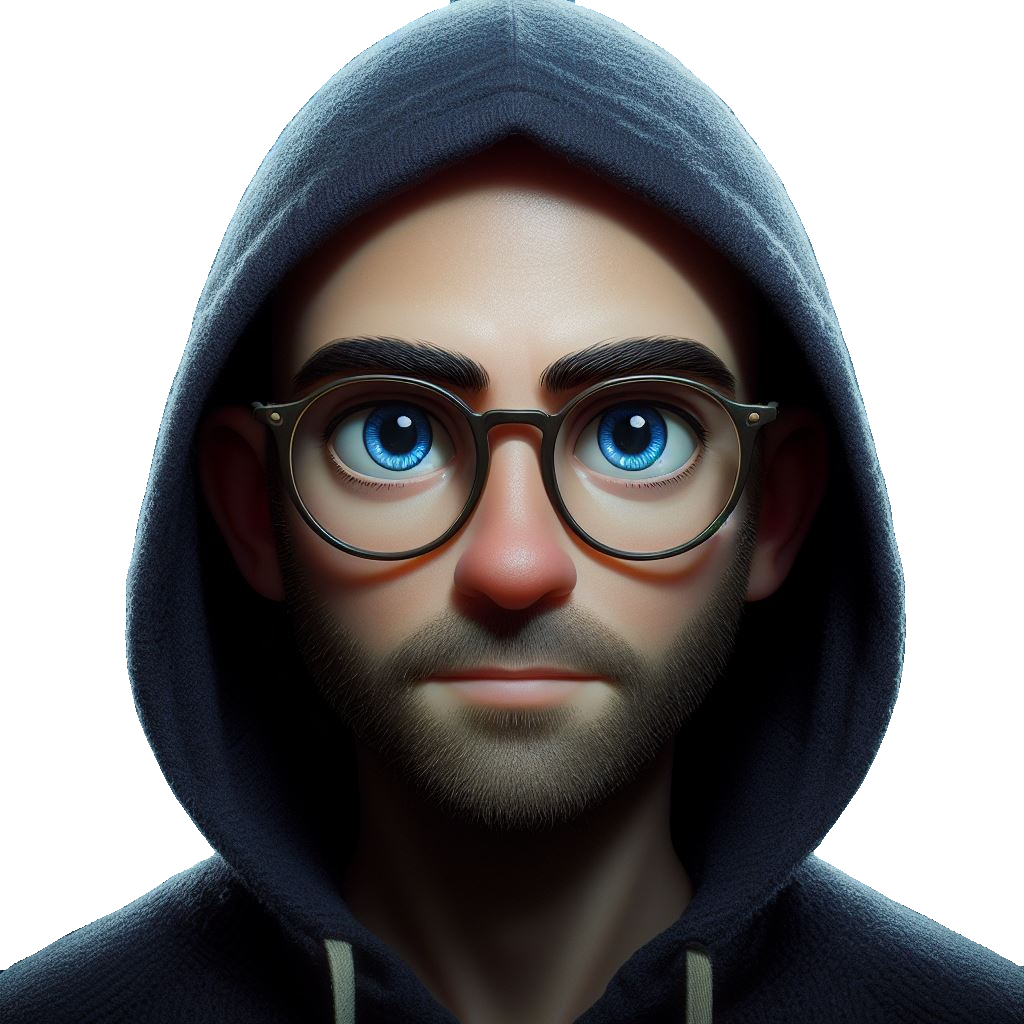
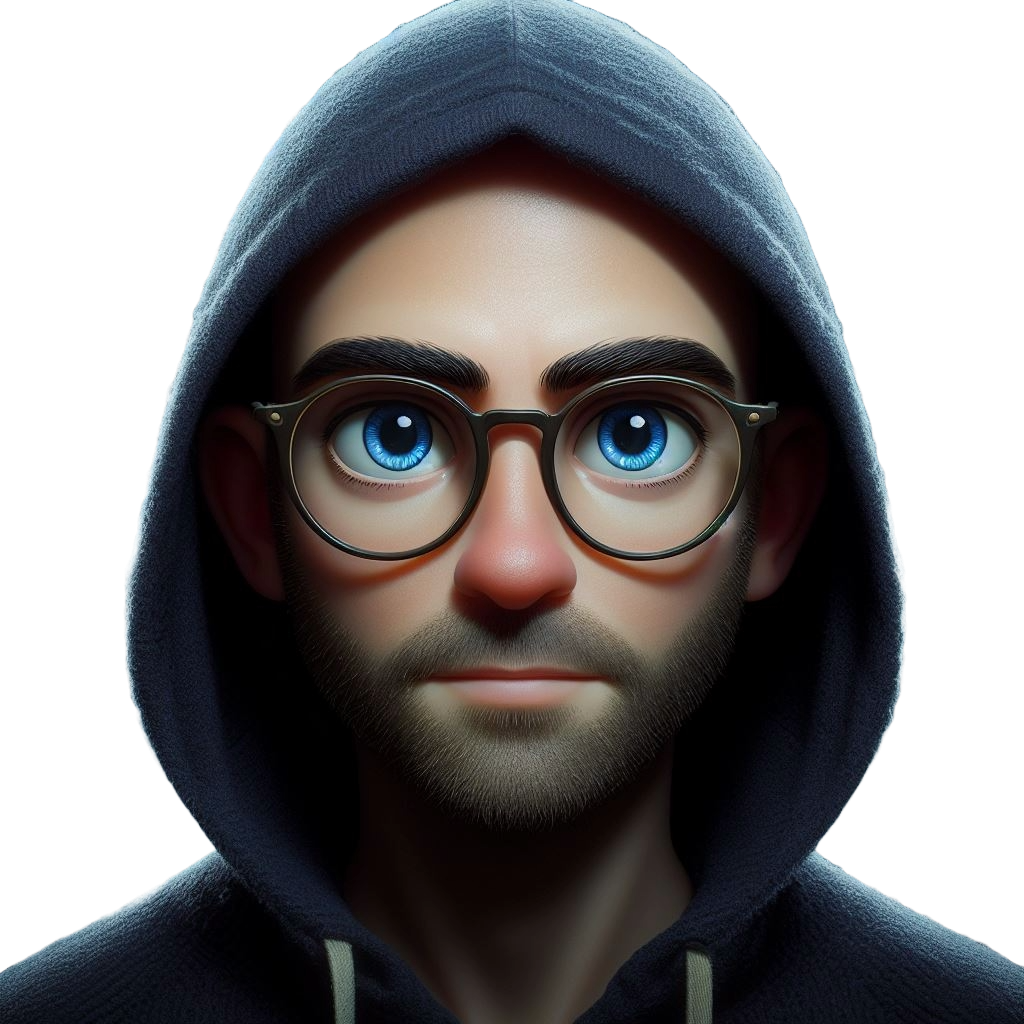
Rearrange files and components

diff --git a/components/Header.tsx b/components/Header.tsx
@@ -3,21 +3,52 @@
 import React from 'react';
 import Image from 'next/image';
 import Link from 'next/link';
-import { ModeToggle } from './ModeToggle';
+import { useTheme } from 'next-themes';
 
 const Header: React.FC = () => {
+  const [mounted, setMounted] = React.useState(false);
+  const { theme, setTheme } = useTheme();
+  const [isHovered, setIsHovered] = React.useState(false);
+
+  React.useEffect(() => setMounted(true), []);
+
+  if (!mounted) return null;
+
+  const handleMouseEnter = () => {
+    setIsHovered(true);
+  };
+
+  const handleMouseLeave = () => {
+    setIsHovered(false);
+  };
+
   return (
     <header className='lg:sticky lg:top-0 lg:flex lg:max-h-screen lg:w-1/2 lg:flex-col lg:py-24'>
-      {/* Your code here */}
-      <Image
-        src='/dark-profile.png'
-        alt='Pixar style avatar of Aaron Myburgh in a dark theme'
-        width={400}
-        height={400}
-        // fill={true}
-        objectFit='contain'
-        className='rounded-full'
-      ></Image>
+      <div
+        className='transform transition duration-500 ease-in-out'
+        onMouseEnter={handleMouseEnter}
+        onMouseLeave={handleMouseLeave}
+      >
+        {theme === 'dark' ? (
+          <Image
+            src={isHovered ? '/dark-profile-glitch.webp' : '/dark-profile.png'}
+            alt='Pixar style avatar of Aaron Myburgh in a dark theme'
+            width={400}
+            height={400}
+            // objectFit='contain'
+            className='rounded-full'
+          />
+        ) : (
+          <Image
+            src={'/light-profile2.png'}
+            alt='Pixar style avatar of Aaron Myburgh in a light theme'
+            width={400}
+            height={400}
+            // objectFit='contain'
+            className='rounded-full'
+          />
+        )}
+      </div>
       <h1 className='mt-8 text-4xl font-bold text-gray-200 sm:text-5xl'>
         <a href='/'>Aaron Myburgh</a>
       </h1>

diff --git a/components/About.tsx b/components/About.tsx
@@ -1,0 +1,43 @@
+import React from 'react';
+
+const About: React.FC = () => {
+  return (
+    <div>
+      <h1>About</h1>
+      <p className='mb-4'>
+        I am Aaron, an adaptable and self-motivated software engineer with a
+        strong foundation in both Mechanical and Software Engineering. I am
+        currently transitioning to Software Engineering from a career in
+        Commercial Property Management.
+      </p>
+      <p>
+        My past experiences would be a valuable asset to any team seeking a
+        problem solver with a diverse skill set. My background in mechanical
+        engineering has provided me with a strong understanding of how systems
+        work and the ability to think critically and solve problems creatively.
+        My experience in commercial property management has further honed my
+        skills in communication, teamwork, and project management. I am
+        passionate about technology and I am constantly learning new things. I
+        am also interested in cybersecurity and have completed coursework in
+        ethical hacking and digital forensics.
+      </p>
+      <p>
+        When I step away from the computer, you can find me hanging out with my
+        family, getting lost in a good historical fiction or biography (highly
+        recommend
+        <a
+          className='font-medium text-gray-200 hover:text-teal-300 focus-visible:text-teal-300'
+          href='https://www.goodreads.com/book/show/343.Perfume'
+          target='_blank'
+          rel='noreferrer'
+        >
+          {' "Perfume: The Story of a Murderer" '}
+        </a>
+        for something unique), or in the summer tackling the open water for a
+        both fun and competetive swimming.
+      </p>
+    </div>
+  );
+};
+
+export default About;

diff --git a/components/ThemeToggle.tsx b/components/ThemeToggle.tsx
@@ -3,9 +3,9 @@
 import * as React from 'react';
 import { MoonIcon, SunIcon } from '@radix-ui/react-icons';
 import { useTheme } from 'next-themes';
-import { Button } from '@/components/main/Button';
+import { Button } from '@/components/ui/button';
 
-export function ModeToggle() {
+export function ThemeToggle() {
   const { theme, setTheme } = useTheme();
 
   const toggleTheme = () => {
@@ -17,10 +17,10 @@ export function ModeToggle() {
       variant='outline'
       size='icon'
       onClick={toggleTheme}
-      className='absolute right-6 top-6'
+      className='absolute right-6 top-6 dark:border-gray-400'
     >
-      <SunIcon className='h-[1.2rem] w-[1.2rem] rotate-0 scale-100 transition-all dark:-rotate-90 dark:scale-0' />
-      <MoonIcon className='absolute h-[1.2rem] w-[1.2rem] rotate-90 scale-0 transition-all dark:rotate-0 dark:scale-100' />
+      <SunIcon className='h-[1.2rem] w-[1.2rem] rotate-0 scale-100 text-gray-900 transition-all dark:-rotate-90 dark:scale-0' />
+      <MoonIcon className='absolute h-[1.2rem] w-[1.2rem] rotate-90 scale-0 text-gray-100 transition-all dark:rotate-0 dark:scale-100' />
       <span className='sr-only'>Toggle theme</span>
     </Button>
   );

diff --git a/app/layout.tsx b/app/layout.tsx
@@ -1,8 +1,8 @@
 import type { Metadata } from 'next';
 import { Inter } from 'next/font/google';
 import './globals.css';
-import { ThemeProvider } from '@/components/main/theme-provider';
-import { ModeToggle } from '@/components/main/ModeToggle';
+import { ThemeProvider } from '@/components/theme-provider';
+import { ThemeToggle } from '@/components/ThemeToggle';
 
 const inter = Inter({ subsets: ['latin'] });
 
@@ -20,16 +20,15 @@ export default function RootLayout({
   return (
     <html lang='en' suppressHydrationWarning>
       <body
-        className={`${inter.className} overflow-x-hidden overflow-y-scroll bg-gray-950 leading-relaxed text-gray-400 antialiased`}
+        className={`${inter.className} overflow-x-hidden overflow-y-scroll leading-relaxed antialiased`}
       >
         <ThemeProvider
           attribute='class'
-          defaultTheme='system'
-          enableSystem
-          disableTransitionOnChange
+          defaultTheme='dark'
+          enableSystem={false}
         >
+          <ThemeToggle />
           {children}
-          <ModeToggle />
         </ThemeProvider>
       </body>
     </html>

diff --git a/components/PageLinks.tsx b/components/PageLinks.tsx
@@ -1,0 +1,28 @@
+import React from 'react';
+import Link from 'next/link';
+
+const PageLinks: React.FC = () => {
+  return (
+    <nav className='hidden lg:block' aria-label='In-page jump links'>
+      <ul className='mt-16 w-max'>
+        {['about', 'experience', 'projects'].map((item) => (
+          <li key={item}>
+            <Link
+              className='active group flex items-center py-3'
+              href={`#${item}`}
+            >
+              <span className='nav-indicator group-delay-1000 mr-4 group-hover:text-gray-200 group-hover:opacity-0 group-focus-visible:w-4 group-focus-visible:text-gray-200 motion-reduce:transition-none'>
+                {'//'}
+              </span>
+              <span className='nav-text text-xs font-bold uppercase tracking-widest text-gray-500 group-hover:text-gray-200 group-focus-visible:text-gray-200'>
+                {item}
+              </span>
+            </Link>
+          </li>
+        ))}
+      </ul>
+    </nav>
+  );
+};
+
+export default PageLinks;

diff --git a/app/page.tsx b/app/page.tsx
@@ -1,15 +1,13 @@
-import Spotlight from '@/components/main/Spotlight';
-import Header from '@/components/main/Header';
+// import Spotlight from '@/components/Spotlight';
+import Header from '@/components/Header';
+import Main from '@/components/Main';
 
 export default function Home() {
   return (
     <>
-      <div className=''>
-        <Spotlight>
-          <div className='mx-auto min-h-screen max-w-screen-xl px-6 py-12 font-sans md:px-12 md:py-20 lg:px-24 lg:py-0'>
-            <Header></Header>
-          </div>
-        </Spotlight>
+      <div className='mx-auto min-h-screen max-w-screen-xl px-6 py-12 font-sans md:px-12 md:py-20 lg:px-24 lg:py-0'>
+        <Header></Header>
+        <Main />
       </div>
     </>
   );

diff --git a/app/globals.css b/app/globals.css
@@ -7,6 +7,12 @@
 }
 
 @layer base {
+  body {
+    @apply bg-gray-100 text-gray-400 transition-all duration-300 ease-in dark:bg-gray-950;
+  }
+}
+
+@layer base {
   :root {
     --background: 0 0% 100%;
     --foreground: 224 71.4% 4.1%;

diff --git a/components/Main.tsx b/components/Main.tsx
@@ -1,0 +1,12 @@
+import React from 'react';
+import About from './About';
+
+const Main: React.FC = () => {
+  return (
+    <main>
+      <About />
+    </main>
+  );
+};
+
+export default About;
